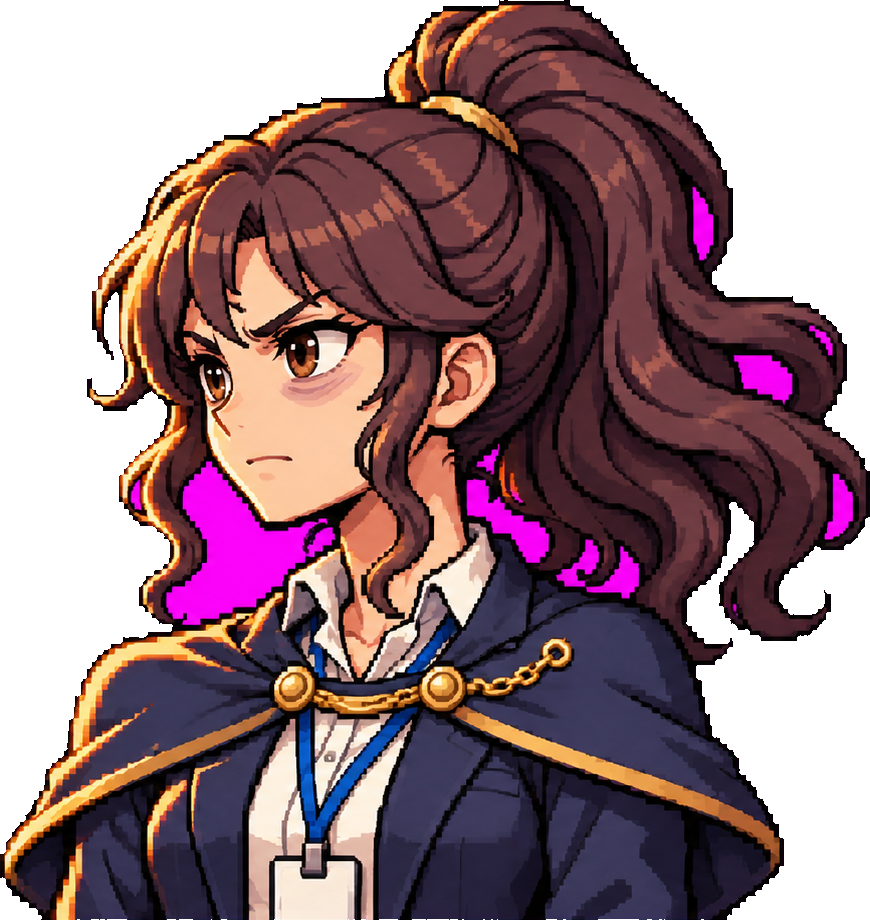
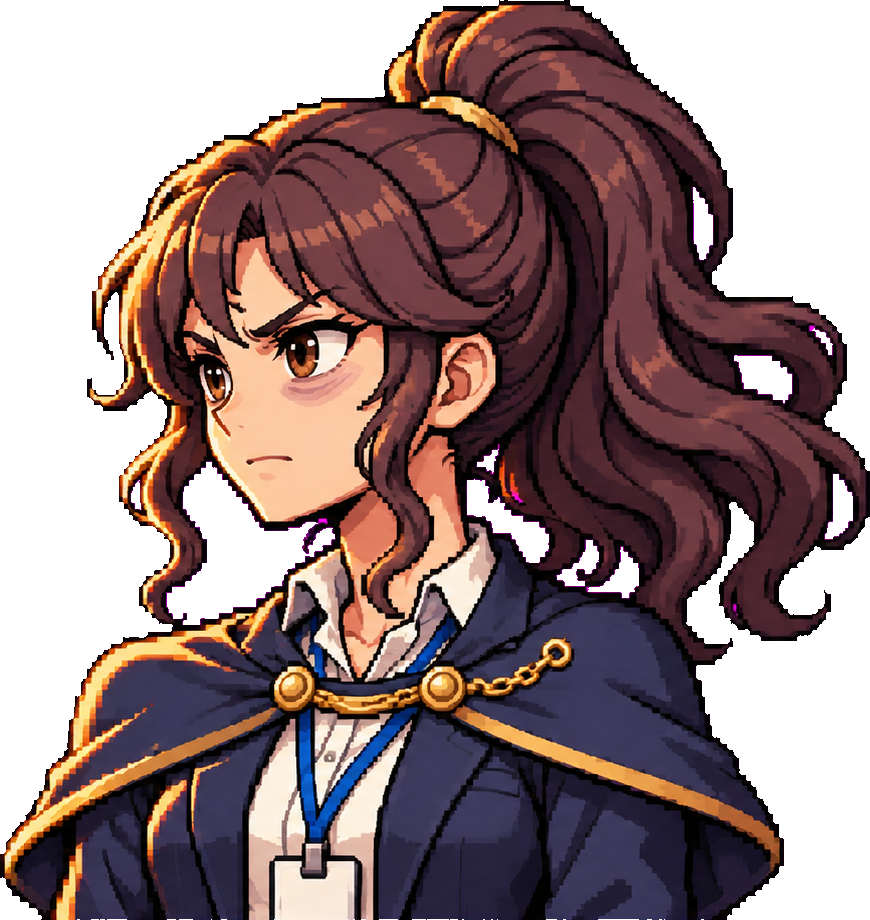
v0.6.3：結算畫面換成新介面的結案報告（路線、夥伴、強化、統計），半身像殘留底色修正

diff --git a/js/game.js b/js/game.js
@@ -14,7 +14,7 @@ const H3_T = [0, .125, .25, .375, .5, .625, .75, .75, .75, .75, .875, 1.0, 1.125
 const SANS = '"Noto Sans TC", sans-serif', SERIF = '"Songti TC", "Noto Serif TC", "PMingLiU", serif';
 const gl = document.getElementById('gl'), hudCv = document.getElementById('hud'), stage = document.getElementById('stage');
 const Q = new URLSearchParams(location.search);
-const VERSION = 'v0.6.2';      // 改版時一起改 tools/deploy.sh 會顯示的版本
+const VERSION = 'v0.6.3';      // 改版時一起改 tools/deploy.sh 會顯示的版本
 
 // ---------- 載入 ----------
 let loadMsg = '載入中', booted = false;
@@ -458,9 +458,9 @@ function finish() {
     u.die(t0 + 1.8, 2.4); snd(t0 + 1.8, 'boss_down', 1); for (let i = 0; i < 5; i++) fx('spawn/poof', t0 + 2.1 + i * .35, 'boss', { scale: 1.8, dx: -1 + i * .5, y: .3 + (i % 2) * 1.2, seed: i + 2 }); for (const m of R.MINIONS) if (R.alive(state, m)) kill(t0 + 1.2, m);
     at(t0 + .1, () => playMusic(null)); const tv = t0 + 4.6; snd(tv, 'fanfare', 1); cam.to(tv - .4, 1.2, { x: .98, y: 1.25, z: -.1, d: 10.9, pitch: 7 });
     R.HEROES.forEach((id, i) => { if (!ko[id]) units[id].pose(tv + .15 + i * .12, 'win').hop(tv + .15 + i * .12, .26, .36).hop(tv + 1.2 + i * .1, .14, .3); }); fx('ui/confetti', tv + .3, [3.4, 1.0], { scale: 2.4, y: .6 }); fx('ui/confetti', tv + .9, [4.6, -.8], { scale: 2.2, y: .8, seed: 5 });
-    const rounds = run.rounds + state.round; S.victory = { t0: tv + .2, t1: 1e9 }; S.results = [{ k: '總回合數', v: rounds }, { k: '同行夥伴', v: run.roster.map(id => DEFS[id].name).join('、') }, { k: '拿到的強化', v: run.picks.map(k => R.UPGRADES[k].name).join('、') || '沒有' }, { k: '獎金', v: Math.max(1000, 12000 - rounds * 400), c: COL.gold }]; S.results.forEach((r, i) => snd(tv + 1.4 + i * .32, 'stat', .7));
+    openReport(tv + .2, true);
     at(tv + 4.2, () => { playMusic('bgm/victory'); phase = 'over'; });
-  } else { clearSave(); hud.t1 = t0 + .6; SFX.add('black', t0 + .4, 1.2, { from: 0, to: .72 }); SFX.add('black', t0 + 1.6, 1e9, { from: .72, to: .72 }); at(t0 + .3, () => playMusic(null)); if (L && R.alive(state, 'boss')) { units.boss.anim(t0 + .5, 'swing', [0, .2, .5, 9, 9, 9, 9, 9]); if (L.id === 'boss') say(t0 + .9, 'boss_attack', 'boss'); } at(t0 + 2.4, () => { phase = 'over'; }); }
+  } else { clearSave(); hud.t1 = t0 + .6; SFX.add('black', t0 + .4, 1.2, { from: 0, to: .72 }); SFX.add('black', t0 + 1.6, 1e9, { from: .72, to: .72 }); at(t0 + .3, () => playMusic(null)); if (L && R.alive(state, 'boss')) { units.boss.anim(t0 + .5, 'swing', [0, .2, .5, 9, 9, 9, 9, 9]); if (L.id === 'boss') say(t0 + .9, 'boss_attack', 'boss'); } openReport(t0 + 1.7, false); at(t0 + 2.6, () => { phase = 'over'; }); }
 }
 
 // ---------- 指令選單與開始／結束畫面（畫在介面畫布上，同時記下可以按的範圍） ----------
@@ -600,6 +600,41 @@ function drawStageCard() { const k = S.stageCard; if (!k || now < k.t0 || now > 
 function bigButton(label, cx, cy, w = 440, h = 116, act = 'go') { const on = pointer && Math.abs(pointer[0] - cx) < w / 2 && Math.abs(pointer[1] - cy) < h / 2, x = cx - w / 2, pe = pressed && pressed.big && pressed.act === act ? (performance.now() - pressed.t) / PRESS_MS : -1, dn = pe >= 0, y = cy - h / 2 + (dn ? 6 : 0); zones.push({ x, y: cy - h / 2, w, h, big: true, act });
   skin.wood(x, y, w, h); skin.paper(x + 16, y + 16, w - 32, h - 32); if (on && !dn) { c.fillStyle = TEAL; c.fillRect(x + 22, y + 22, w - 44, h - 44); } if (dn) { c.fillStyle = `rgba(255,246,216,${.85 - .4 * Math.min(1, pe)})`; c.fillRect(x + 16, y + 16, w - 32, h - 32); }
   text(label, cx, y + h / 2 + 17, { px: 48, w: 900, fam: SERIF, align: 'center', ls: 8, col: on && !dn ? '#fff8e6' : INK }); }
+// ---------- 結案報告（結算）：通關或全員倒下之後，把這一輪的路線、夥伴、強化攤在一張公文上 ----------
+let report = null;
+function openReport(t0, win) { const rounds = run.rounds + (state.round || 0), cnt = {}; for (const k of run.picks) cnt[k] = (cnt[k] || 0) + 1;
+  report = { t0, win, rounds, bonus: win ? Math.max(1000, 12000 - rounds * 400) : 0, floor: run.floor, stage: R.nodeName(run.node), bossHp: !win && state.hasBoss ? Math.ceil(state.hp.boss / R.STAT.boss.hp * 100) : null, ups: Object.entries(cnt),
+    route: R.MAP.map((fl, k) => k <= run.floor && run.path[k] != null && fl[run.path[k]] ? fl[run.path[k]] : null), party: run.roster.map(id => { const on = R.HEROES.includes(id); return { id, on, down: id !== 'vivi' && !((on ? state.hp[id] : run.hp[id]) > 0) }; }) };
+  for (let i = 0; i < 4; i++) snd(t0 + .5 + i * .3, 'stat', .7); snd(t0 + 1.9, 'card', .9); }
+function drawReport() { const k = report; if (!k || now < k.t0) return; zones = [];
+  const el = now - k.t0, u = easeOut(sat(el / .4)), PW = 940, PH = 1008, X = (k.win ? 46 : W / 2 - PW / 2) - (1 - u) * 60, Y = 36, L = X + 64, IW = PW - 128, nF = R.MAP.length, show = i => easeOut(sat((el - .45 - i * .3) / .3));
+  const head = (s, y, i) => { c.globalAlpha = show(i); c.fillStyle = RED; c.fillRect(L, y - 18, 6, 22); text(s, L + 16, y, { px: 21, w: 900, col: INK, ls: 6 }); c.fillStyle = 'rgba(43,31,24,.18)'; c.fillRect(L + 22 + mw(s, 21, 900) + s.length * 6, y - 8, IW - 22 - mw(s, 21, 900) - s.length * 6, 2); };
+  c.save(); c.globalAlpha = sat(el / .25); skin.wood(X, Y, PW, PH); skin.paper(X + 20, Y + 20, PW - 40, PH - 40, { clips: [X + 130, X + PW - 130] });
+  text('結案報告', L, Y + 130, { px: 78, w: 900, fam: SERIF, col: INK, ls: 10 }); text(k.win ? `討伐${DEFS.boss.name}　${nF} 站全部走完` : `倒在第 ${k.floor + 1} 站「${k.stage}」` + (k.bossHp != null ? `　對方還剩 ${k.bossHp}% 的血` : ''), L + 4, Y + 174, { px: 24, w: 700, col: INK2, ls: 2 }); c.fillStyle = INK; c.fillRect(L, Y + 192, IW, 3);
+  // 路線：走過的站連成紅線；倒下的那一站打叉；沒走到的是虛線圈
+  { const y0 = Y + 244, gap = (IW - 68) / (nF - 1), cy = y0 + 62, cx = i => L + 34 + i * gap, last = k.win ? nF - 1 : k.floor; head('路線', y0, 0);
+    c.strokeStyle = 'rgba(43,31,24,.3)'; c.lineWidth = 4; c.setLineDash([3, 9]); c.beginPath(); c.moveTo(cx(0), cy); c.lineTo(cx(nF - 1), cy); c.stroke(); c.setLineDash([]); if (last > 0) { c.strokeStyle = '#c23b2e'; c.lineWidth = 6; c.beginPath(); c.moveTo(cx(0), cy); c.lineTo(cx(last), cy); c.stroke(); }
+    k.route.forEach((nd, i) => { const x = cx(i), r = 30, fell = !k.win && i === k.floor;
+      if (!nd) { c.fillStyle = '#e9dfc6'; c.beginPath(); c.arc(x, cy, r, 0, 7); c.fill(); c.strokeStyle = 'rgba(43,31,24,.4)'; c.lineWidth = 3; c.setLineDash([5, 6]); c.beginPath(); c.arc(x, cy, r - 2, 0, 7); c.stroke(); c.setLineDash([]); text('？', x, cy + 11, { px: 28, w: 900, fam: SERIF, align: 'center', col: 'rgba(43,31,24,.4)' }); return; }
+      c.fillStyle = '#1c120c'; c.beginPath(); c.arc(x, cy, r + 4, 0, 7); c.fill(); c.fillStyle = nd.icon === 'boss' || nd.icon === 'chief' ? '#6e1c16' : '#33241a'; c.beginPath(); c.arc(x, cy, r, 0, 7); c.fill(); c.strokeStyle = BRASS; c.lineWidth = 3; c.beginPath(); c.arc(x, cy, r - 2, 0, 7); c.stroke();
+      const im = A.icons[nd.icon]; if (im) pix(im, x - 23, cy - 23, 46, 46); else text(nd.tag[0], x, cy + 11, { px: 28, w: 900, fam: SERIF, align: 'center', col: CREAM });
+      if (fell) { c.strokeStyle = 'rgba(20,6,4,.9)'; c.lineWidth = 12; c.lineCap = 'round'; for (const d of [-1, 1]) { c.beginPath(); c.moveTo(x - 22, cy - 22 * d); c.lineTo(x + 22, cy + 22 * d); c.stroke(); } c.strokeStyle = '#e0483a'; c.lineWidth = 7; for (const d of [-1, 1]) { c.beginPath(); c.moveTo(x - 22, cy - 22 * d); c.lineTo(x + 22, cy + 22 * d); c.stroke(); } c.lineCap = 'butt'; }
+      text(fit(R.nodeName(nd), gap - 6, 15, 900, SERIF), x, cy + 58, { px: 15, w: 900, fam: SERIF, align: 'center', col: fell ? RED : INK }); }); }
+  // 同行夥伴
+  { const y0 = Y + 416; head('同行夥伴', y0, 1); k.party.forEach((p, i) => { const x = L + 6 + i * 136, y = y0 + 22, d = DEFS[p.id]; skin.face(A.face[p.id], x + 20, y, 76, p.down ? .55 : 0);
+      text(d.name, x + 58, y + 104, { px: 21, w: 900, fam: SERIF, align: 'center', col: INK }); text(p.down ? '倒下' : p.on ? '出戰' : '候補', x + 58, y + 126, { px: 15, w: 900, align: 'center', col: p.down ? RED : p.on ? '#1f6a5c' : INK2 }); }); }
+  // 強化
+  { const y0 = Y + 600; head('拿到的強化', y0, 2); if (!k.ups.length) text('這一輪沒有拿強化', L + 16, y0 + 60, { px: 20, w: 700, col: INK2 });
+    k.ups.forEach(([key, n], i) => { const x = L + 6 + i * 104, y = y0 + 18, im = A.icons['up_' + key]; c.fillStyle = '#1c120c'; c.fillRect(x + 12, y - 2, 68, 68); c.fillStyle = '#3a2a1e'; c.fillRect(x + 15, y + 1, 62, 62); if (im) pix(im, x + 18, y + 4, 56, 56);
+      if (n > 1) { c.fillStyle = RED; c.fillRect(x + 60, y + 46, 32, 24); text(`×${n}`, x + 76, y + 64, { px: 17, w: 900, align: 'center', col: '#fff8e6' }); } text(fit(R.UPGRADES[key].name, 100, 15, 900), x + 46, y + 88, { px: 15, w: 900, align: 'center', col: INK }); }); }
+  // 數字
+  { const y0 = Y + 748, cu = easeOut(sat((el - 1.35) / .6)), cells = k.win ? [['總回合數', Math.round(k.rounds * cu), INK], ['同行人數', k.party.length, INK], ['獎金', Math.round(k.bonus * cu).toLocaleString('en-US'), '#a8741a']] : [['總回合數', Math.round(k.rounds * cu), INK], ['走到', `第 ${k.floor + 1} 站`, INK], ['同行人數', k.party.length, INK]]; head('統計', y0, 3);
+    cells.forEach(([lab, v, col], i) => { const x = L + i * (IW / 3); text(lab, x + 16, y0 + 44, { px: 18, w: 700, col: INK2, ls: 3 }); text(String(v), x + 16, y0 + 100, { px: 54, w: 900, col }); if (i) { c.fillStyle = 'rgba(43,31,24,.18)'; c.fillRect(x - 4, y0 + 24, 2, 84); } }); }
+  c.globalAlpha = sat(el / .25);
+  if (k.win) text('今天，準時下班。', L + 8, Y + PH - 74, { px: 38, w: 900, fam: SERIF, col: INK, ls: 6 }); else wrap('提示：看到「蓄力」就防禦或用坦克的奧義；血少先喝珍珠奶茶；岔路多去茶水間。', IW - 400, 20).forEach((ln, i) => text(ln, L + 8, Y + PH - 100 + i * 30, { px: 20, w: 700, col: INK2 }));
+  { const se = el - 1.9; if (se > 0) skin.stamp(k.win ? '討伐完成' : '未結案', X + PW - 210, Y + 112, -.12, 46, se < .2 ? lerp(2.4, 1, easeOut(se / .2)) : 1); }
+  c.restore(); if (phase === 'over') bigButton(k.win ? '再玩一次' : '再挑戰一次', X + PW - 64 - 180, Y + PH - 88, 360, 92);
+}
 function drawOverlay() {
   if (phase === 'title' || phase === 'load') { zones = []; c.fillStyle = 'rgba(10,7,6,.76)'; c.fillRect(0, 0, W, H);
     text('不 想 上 班 RPG', W / 2, 168, { px: 34, w: 700, align: 'center', col: BRASS, ls: 10 });
@@ -614,8 +649,7 @@ function drawOverlay() {
     toggles(W / 2 - 166, 930);
     { const tip = a2hs(); if (tip) { const x = 1392, y = 52, w = 492, h = 150, pe = pressed && pressed.opt === 'a2hs' ? 1 : 0; zones.push({ x, y, w, h, opt: 'a2hs' }); c.save(); c.translate(0, pe ? 4 : 0); skin.paper(x, y, w, h, { clips: [x + 60, x + w - 60] });
         if (iconImg) { c.imageSmoothingEnabled = false; c.drawImage(iconImg, x + 20, y + 22, 106, 106); c.imageSmoothingEnabled = true; } text(tip[0], x + 144, y + 62, { px: 28, w: 900, fam: SERIF, col: INK }); text(tip[1], x + 144, y + 98, { px: 20, w: 700, col: INK2 }); text(installEvt ? '' : '點一下這張紙就不再提醒', x + 144, y + 128, { px: 16, w: 500, col: 'rgba(43,31,24,.55)' }); c.restore(); } } text('滑鼠／觸控點選，或用方向鍵與 Enter', W / 2, 1022, { px: 21, w: 500, align: 'center', col: 'rgba(239,230,207,.7)' }); }
-  if (phase === 'over') { zones = []; if (state.over === 'win') bigButton('再玩一次', 1500, 930, 400, 110);
-    else { text('全員倒下', W / 2, 400, { px: 150, w: 900, fam: SERIF, align: 'center', ls: 20, col: '#ff8a78', stroke: 'rgba(20,6,8,.9)', sw: 16 }); text(`倒在第 ${run.floor + 1} 站「${R.STAGES[run.node.stage].name}」` + (state.hasBoss ? `　${DEFS.boss.name}還剩 ${Math.ceil(state.hp.boss / R.STAT.boss.hp * 100)}% 的血` : ''), W / 2, 500, { px: 32, w: 500, align: 'center', col: COL.text }); text('提示：看到「蓄力」就防禦或用坦克的奧義；血少先喝珍珠奶茶；岔路多去茶水間', W / 2, 560, { px: 24, w: 500, align: 'center', col: COL.dim }); bigButton('再挑戰一次', W / 2, 760); } }
+  drawReport();
 }
 
 // ---------- 操作 ----------
@@ -655,7 +689,7 @@ function frame(ts) {
   requestAnimationFrame(frame);
 }
 units.md.show(-2, false); cam.to(-1, 0, WIDE); enterStage();
-window.__game = { get state() { return state; }, get run() { return run; }, go: i => chooseNode(i), get front() { return R.FRONT.slice(); }, S, units, get phase() { return phase; }, get saved() { return saved; }, resume: () => press(zones.find(z => z.act === 'cont')), get now() { return now; }, get menu() { return menu; }, get actor() { return actor; }, press: i => { focus = i; menu.items[i].go(); }, tap: i => press({ i, off: !!menu.items[i].off }), start: () => press(zones.find(z => z.big)) };
+window.__game = { get state() { return state; }, get run() { return run; }, go: i => chooseNode(i), get front() { return R.FRONT.slice(); }, S, units, get phase() { return phase; }, testReport: win => { phase = 'over'; menu = null; if (S.ui.length) S.ui.at(-1).t1 = now; if (!win) SFX.add('black', now, 1e9, { from: .72, to: .72 }); openReport(now, win); }, get saved() { return saved; }, resume: () => press(zones.find(z => z.act === 'cont')), get now() { return now; }, get menu() { return menu; }, get actor() { return actor; }, press: i => { focus = i; menu.items[i].go(); }, tap: i => press({ i, off: !!menu.items[i].off }), start: () => press(zones.find(z => z.big)) };
 booted = true; requestAnimationFrame(frame); loadMsg = '聲音載入中'; phase = 'load'; audioReady.then(() => { if (phase === 'load') phase = 'title'; });
 // 等聲音太久（網路慢）也讓玩家先開始
 setTimeout(() => { if (phase === 'load') phase = 'title'; }, 6000);

diff --git a/tools/bustfix.py b/tools/bustfix.py
@@ -1,0 +1,15 @@
+"""半身像去掉被頭髮、手臂圍住沒切到的洋紅底色（newchar.py／bust.py 會把封閉的洞整塊保留，夾在裡面的底色就留下來了）。
+用法：uv run --with pillow --with numpy --with scipy python tools/bustfix.py [id…]（不給名字＝全部）。夠接近純洋紅、而且連成一片的才挖掉，衣服上的粉紅不會動。"""
+import sys, glob, os
+import numpy as np
+from PIL import Image
+from scipy import ndimage as ndi
+os.chdir(os.path.dirname(os.path.dirname(os.path.abspath(__file__))))
+ids = sys.argv[1:] or [os.path.basename(f)[5:-4] for f in sorted(glob.glob('art/cutin/bust_*.png'))]
+for n in ids:
+    f = f'art/cutin/bust_{n}.png'; a = np.asarray(Image.open(f).convert('RGBA')).copy(); r, g, b = (a[..., i].astype(int) for i in range(3)); op = a[..., 3] > 0
+    core = op & (r > 215) & (g < 70) & (b > 215); near = op & (r - g > 90) & (b - g > 90) & (abs(r - b) < 70) & (r > 170)      # core＝純洋紅；near＝邊緣混到的過渡色
+    lab, k = ndi.label(core); sizes = ndi.sum(core, lab, range(1, k + 1)); big = np.isin(lab, 1 + np.nonzero(sizes >= 60)[0])
+    kill = big | (near & ndi.binary_dilation(big, iterations=2)); a[kill, 3] = 0
+    if kill.sum(): Image.fromarray(a).save(f)
+    print(n, '挖掉', int(kill.sum()), '像素', f'（{int((sizes >= 60).sum())} 塊）')
